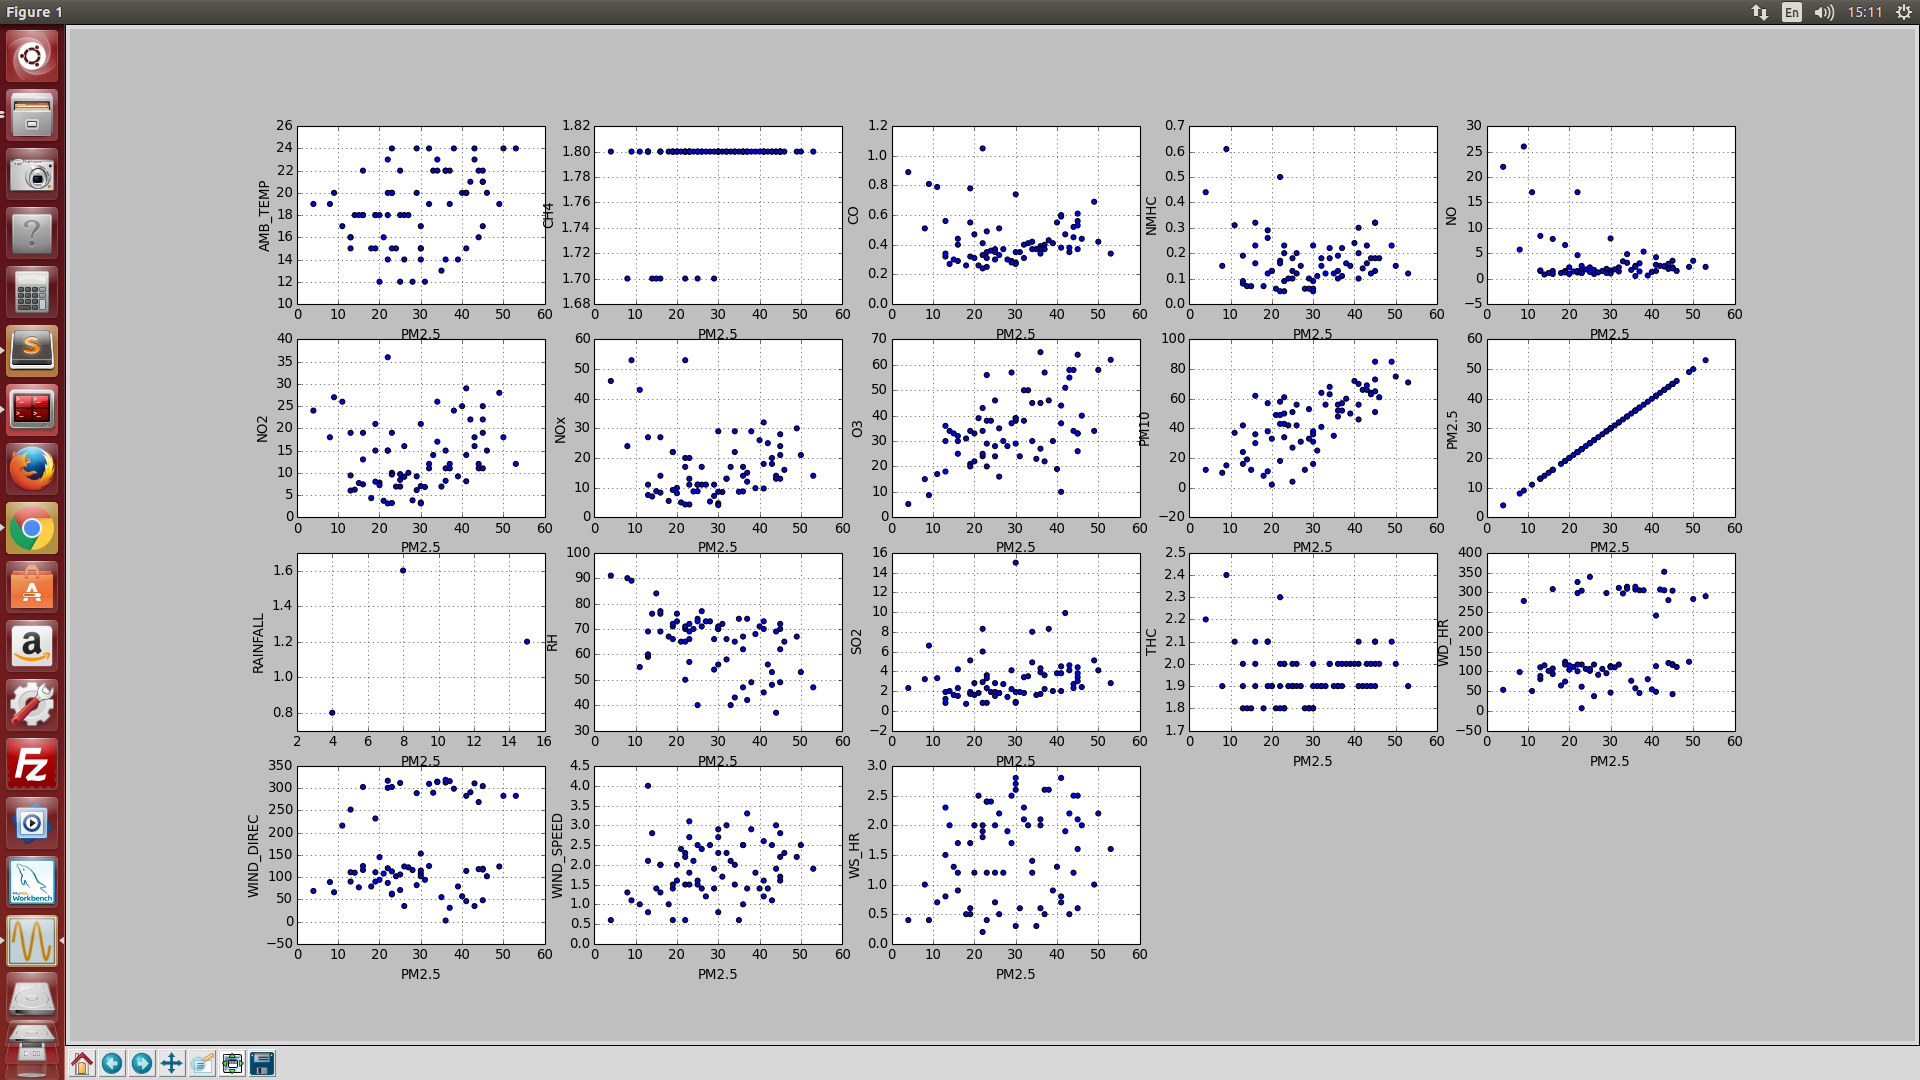
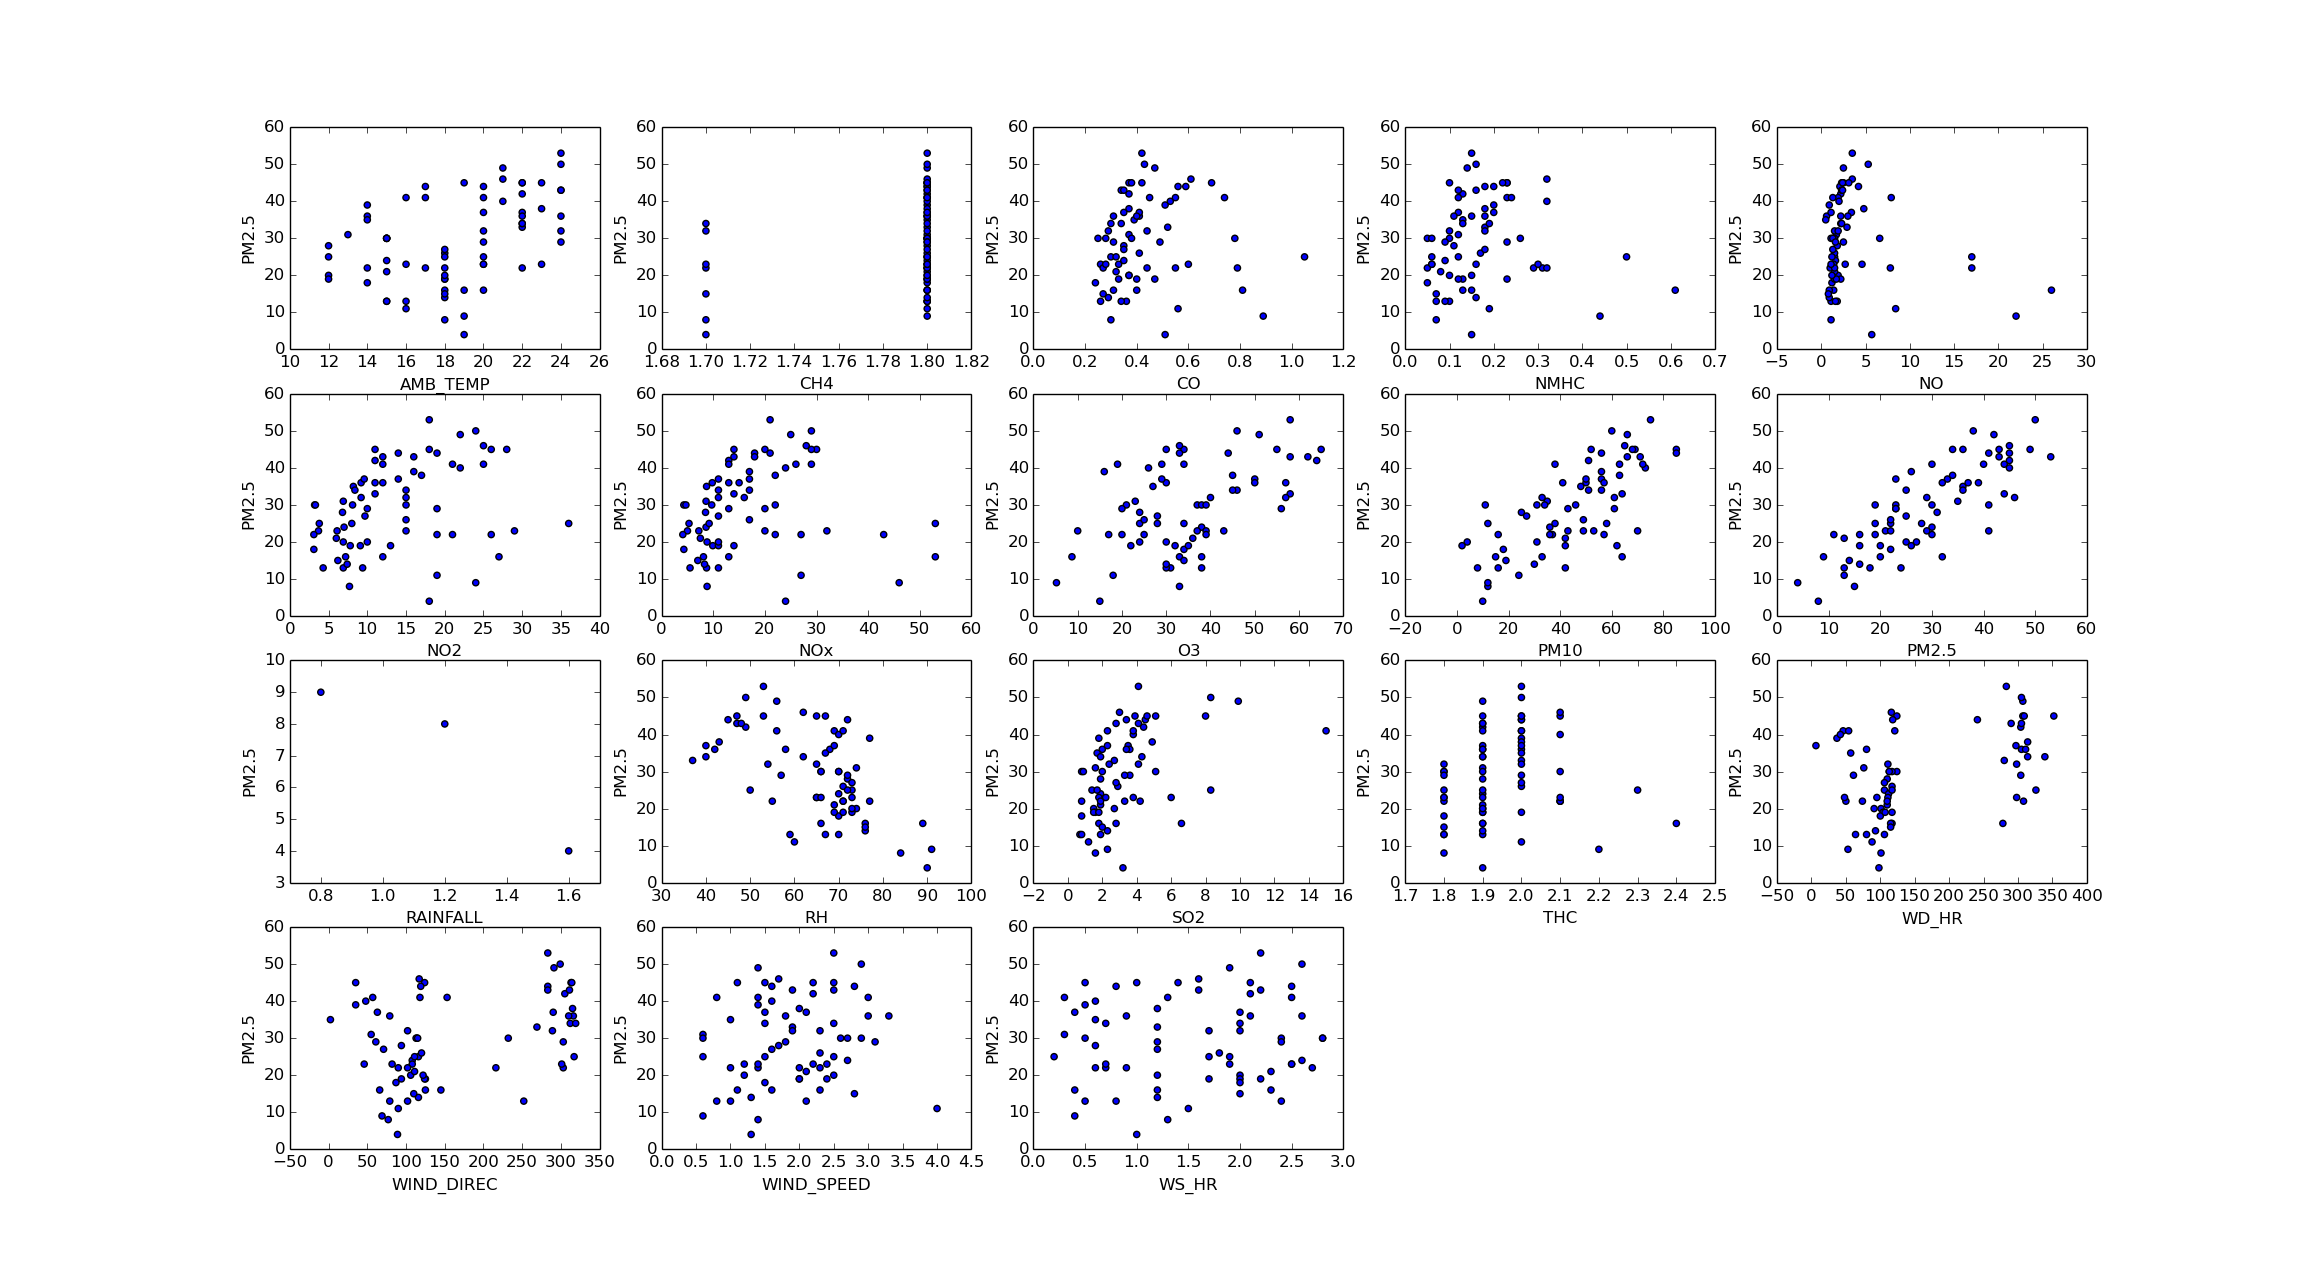
update figures

diff --git a/hw1/vis_data.py b/hw1/vis_data.py
@@ -26,11 +26,14 @@ training.plot(linestyle='', marker='o', ax = ax, y='PM10', label='PM10')
 training.plot(kind="scatter", x="PM2.5", y="PM10")
 training.plot(kind="scatter", x="PM2.5", y="WIND_DIREC")
 
-
 plotNum = 1
 for factor in factors:
-	ax = plt.subplot(4,5, plotNum)
+	plt.subplot(4,5, plotNum)
 	plotNum += 1
-	training.plot(kind="scatter", x="PM2.5", y=factor, ax =ax)
+	y = training['PM2.5'][1:]
+	x = training[factor][0:-1]
+	plt.xlabel(factor)
+	plt.ylabel('PM2.5')
+	plt.scatter(x, y)
 
 plt.show()
